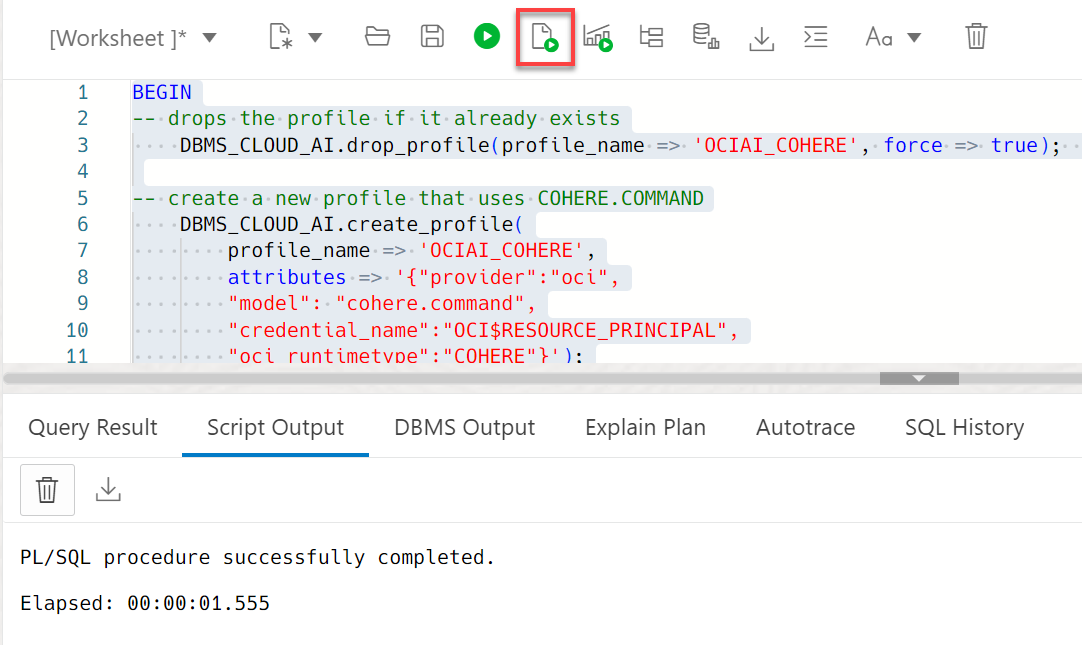
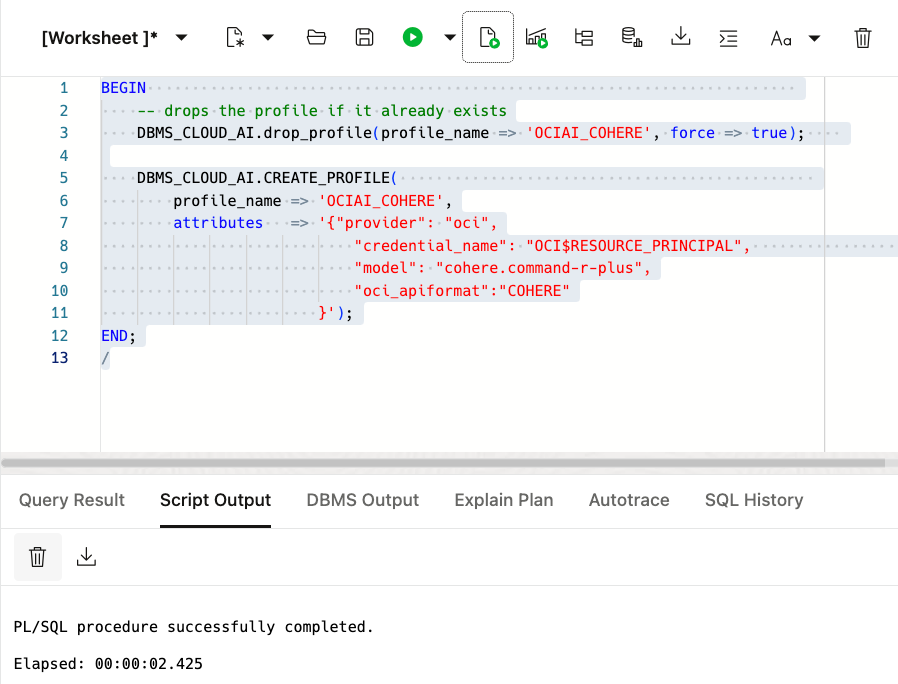
feedback

diff --git a/shared/adb-speaks-human/integrate-genai/integrate-genai.md b/shared/adb-speaks-human/integrate-genai/integrate-genai.md
@@ -72,10 +72,10 @@ In ADB, enable the use of resource principals for the **`MOVIESTREAM`** user.
 
 A Select AI profile encapsulates connection information for an AI provider. This includes:
 
-1. A security credential (i.e. the resource principal)
+1. A security credential (e.g. the resource principal)
 2. The name of the provider
-3. The name of the LLM
-
+3. The name of the LLM (optional)
+4. A list of target tables that will be used for natural language queries (required when using NL2SQL)
 You can create as many profiles as you need, which is useful when comparing the quality of the results of different models.
 
 For a complete list of the Select AI profile attributes, see the [DBMS\_CLOUD\_AI\_Package] (https://docs.oracle.com/en/cloud/paas/autonomous-database/serverless/adbsb/dbms-cloud-ai-package.html#GUID-D51B04DE-233B-48A2-BBFA-3AAB18D8C35C) in the Using Oracle Autonomous Database Serverless documentation. 
@@ -83,23 +83,28 @@ For a complete list of the Select AI profile attributes, see the [DBMS\_CLOUD\_A
 >**Note:** The deployment script created a Select AI profile using the code below: 
 
 ```
-BEGIN
-    -- drop the AI profile
-    DBMS_CLOUD_AI.drop_profile (
-        profile_name => 'genai',
-        force => true
-        );
+begin    
 
-    -- create an AI profile that uses the default COHERE model on OCI
-    DBMS_CLOUD_AI.create_profile(
+    -- Create an AI profile that uses the default LLAMA model on OCI
+    dbms_cloud_ai.create_profile(
         profile_name => 'genai',
         attributes =>       
             '{"provider": "oci",
-            "credential_name": "OCI$RESOURCE_PRINCIPAL"
+            "credential_name": "OCI$RESOURCE_PRINCIPAL",
+            "comments":"true",            
+            "object_list": [
+                {"owner": "MOVIESTREAM", "name": "GENRE"},
+                {"owner": "MOVIESTREAM", "name": "CUSTOMER"},
+                {"owner": "MOVIESTREAM", "name": "PIZZA_SHOP"},
+                {"owner": "MOVIESTREAM", "name": "STREAMS"},            
+                {"owner": "MOVIESTREAM", "name": "MOVIES"},
+                {"owner": "MOVIESTREAM", "name": "ACTORS"}
+             ]
             }'
         );
-END;
-/        
+        
+end;
+/      
 ```
 
 1. Sign into the SQL worksheet as the **`MOVIESTREAM`** user with the password **`watchS0meMovies#`**. On the **Database Actions Launchpad** page, click the **Development** tab, and then click the **SQL** tab. The SQL Worksheet is displayed.
@@ -108,56 +113,66 @@ END;
 
     ![Moviestream password](./images/moviestream-output-pswd.png "")
 
-2. Create an AI profile for the **Meta Llama 2 Chat model**. Copy and paste the following code into your SQL Worksheet, and then click the **Run Script** icon.
+2. Create an AI profile for the **Meta Llama 3 model**. Copy and paste the following code into your SQL Worksheet, and then click the **Run Script** icon.
 
     ```
     <copy>
     BEGIN
-    -- drops the profile if it already exists
+        -- drops the profile if it already exists
         DBMS_CLOUD_AI.drop_profile(
-            profile_name => 'OCIAI_LLAMA',
+            profile_name => 'ociai_llama',
             force => true
         );     
-        -- create a new profile that uses a specific model
-        DBMS_CLOUD_AI.create_profile(
-            profile_name => 'OCIAI_LLAMA',
-            attributes => '{"provider":"oci",
-                "model": "meta.llama-2-70b-chat",
-                "credential_name":"OCI$RESOURCE_PRINCIPAL",
-                "oci_runtimetype":"LLAMA"
-            }');
-    END;
+
+        -- Meta Llama 3 (this is the default model, so you could skip the model attribute if you like)                                                                     
+        DBMS_CLOUD_AI.create_profile (                                              
+            profile_name => 'ociai_llama',
+            attributes   => 
+            '{"provider": "oci",
+                "credential_name": "OCI$RESOURCE_PRINCIPAL",
+                "object_list": [
+                    {"owner": "moviestream", "name": "GENRE"},
+                    {"owner": "moviestream", "name": "CUSTOMER"},
+                    {"owner": "moviestream", "name": "PIZZA_SHOP"},
+                    {"owner": "moviestream", "name": "STREAMS"},            
+                    {"owner": "moviestream", "name": "MOVIES"},
+                    {"owner": "moviestream", "name": "ACTORS"}
+                ],
+                "model": "meta.llama-3-70b-instruct"
+                }');
+    END;                                                                         
     /
     </copy>
     ```
     ![Create AI profile](./images/create-llama.png "")
 
-3. Create an AI profile for the **Cohere model**. Copy and paste the following code into your SQL Worksheet, and then click the **Run Script** icon.
+3. Create an AI profile for the **Cohere model**. This model will not be used for SQL generation - it will only be used for generating innovative content. Copy and paste the following code into your SQL Worksheet, and then click the **Run Script** icon.
     
     ```
     <copy>
-    BEGIN
-    -- drops the profile if it already exists
+    BEGIN                                                                        
+        -- drops the profile if it already exists
         DBMS_CLOUD_AI.drop_profile(profile_name => 'OCIAI_COHERE', force => true);    
 
-    -- create a new profile that uses COHERE.COMMAND
-        DBMS_CLOUD_AI.create_profile(
+        DBMS_CLOUD_AI.CREATE_PROFILE(                                              
             profile_name => 'OCIAI_COHERE',
-            attributes => '{"provider":"oci",
-            "model": "cohere.command",
-            "credential_name":"OCI$RESOURCE_PRINCIPAL",
-            "oci_runtimetype":"COHERE"}');
-    end;
+            attributes   => '{"provider": "oci",
+                                "credential_name": "OCI$RESOURCE_PRINCIPAL",                        
+                                "model": "cohere.command-r-plus",
+                                "oci_apiformat":"COHERE"
+                            }');
+    END;
     /
     </copy>
     ```
     ![Create AI profile](./images/create-cohere.png "")
 
+
 ## Task 3: Test the AI profile
 
 We will use the PL/SQL API to generate a response from the Cohere model. This example is using the **chat** action. It is not using any private data coming from your database.
 
-1. Test the LLM and learn about Autonomous Database as the **`MOVIESTREAM`** user using the **Cohere model**. Copy and paste the following code into your SQL Worksheet, and then click the **Run Script** icon.
+1. Test the LLM and learn about Autonomous Database as the MOVIESTREAM user using the **Cohere model**. Copy and paste the following code into your SQL Worksheet, and then click the **Run Script** icon.
 
     ```
     <copy>
@@ -182,7 +197,6 @@ We will use the PL/SQL API to generate a response from the Cohere model. This ex
     </copy>
     ```
     ![Generate sentence-like response](./images/llama-chat.png "")
-
 
 ## Summary
 You learned how to integrate Autonomous Database with OCI Generative AI. And, you chatted with different models hosted on OCI Generative AI. Next, let's see how to use our private data with LLMs.

diff --git a/shared/adb-speaks-human/query-using-select-ai/query-using-select-ai.md b/shared/adb-speaks-human/query-using-select-ai/query-using-select-ai.md
@@ -257,7 +257,7 @@ A notebook is comprised of paragraphs that use different languages: SQL, PL/SQL,
 
     ![Invalidate the session.](./images/invalidate-session.png =60%x*)
 
-6. Examine, run, and review the output of the remaining paragraphs, as desired. To run the entire notebook, click the **Run Paragraphs** icon on the notebook banner. A **Run all paragraphs** confirmation message box is displayed. Click **Confirm**.
+5. Examine, run, and review the output of the remaining paragraphs, as desired. To run the entire notebook, click the **Run Paragraphs** icon on the notebook banner. A **Run all paragraphs** confirmation message box is displayed. Click **Confirm**.
 
   ![Run all paragraphs](images/run-all-paragraph.png)
 
